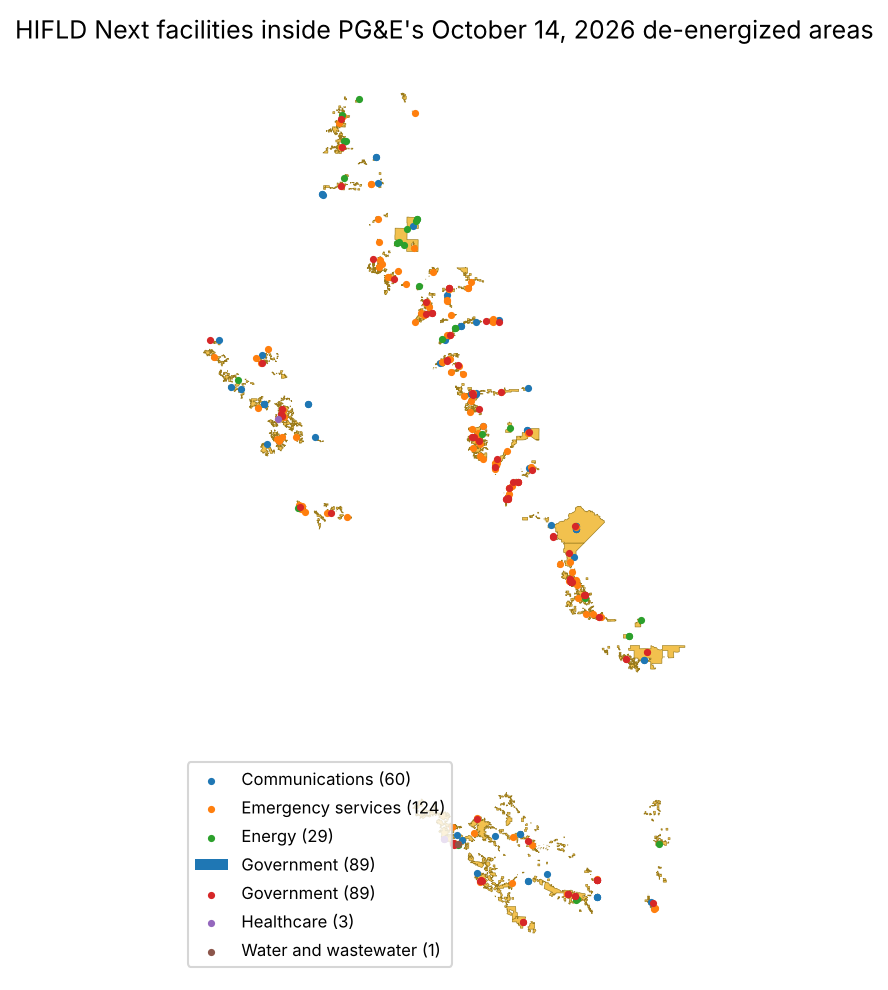
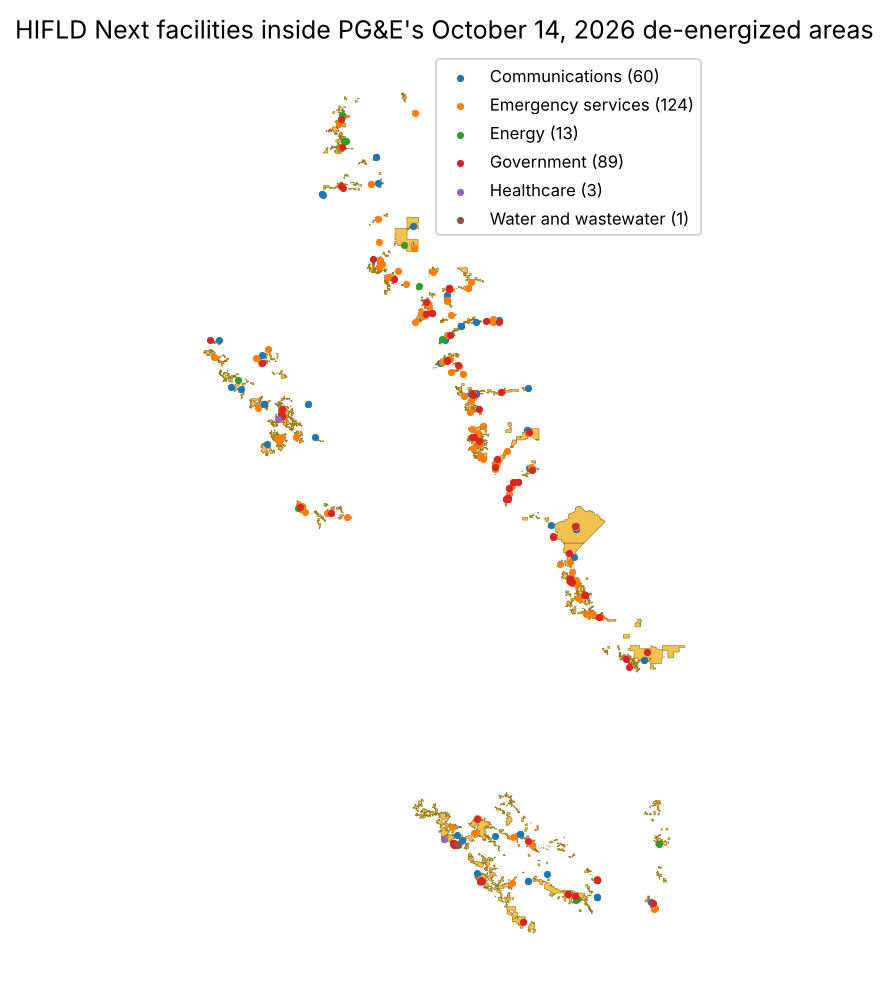
pge-psps-hifld-facilities: README, exclude PG&E-owned plants, map fix
Claude-Session: https://claude.ai/code/session_01L5nw7AtSoNiRCerJhzixSw

Changed region(s): [[0.2128, 0.7576, 0.5169, 0.9697], [0.4561, 0.0606, 0.7905, 0.2424]]

diff --git a/pge-psps-hifld-facilities/notebook.py b/pge-psps-hifld-facilities/notebook.py
@@ -237,7 +237,19 @@ def _(fetch, gpd, pd, re, session):
         ("private-schools", "Private schools", "Government", None),
         ("colleges-and-universities", "Colleges", "Government", lambda d: d["STATUS"] == "A"),
         ("prison-boundaries-1", "Jails and prisons", "Government", lambda d: d["STATUS"] == "OPEN"),
-        ("power-plants-1", "Power plants", "Energy", lambda d: d["STATUS"] == "OP"),
+        # PG&E's own plants are its assets, not CFI customers.
+        (
+            "power-plants-1",
+            "Power plants (not PG&E's)",
+            "Energy",
+            lambda d: (d["STATUS"] == "OP") & ~d["OPERATOR"].str.startswith("PACIFIC GAS"),
+        ),
+        (
+            "power-plants-1",
+            "PG&E's own power plants",
+            "Not CFI",
+            lambda d: (d["STATUS"] == "OP") & d["OPERATOR"].str.startswith("PACIFIC GAS"),
+        ),
         (
             "icis-wastewater-treatment-plants",
             "Wastewater plants",
@@ -381,7 +393,7 @@ def _(gpd, inside_oct14, mo):
     _cfi = inside_oct14[inside_oct14["sector"] != "Not CFI"]
     _blobs = gpd.GeoSeries([_cfi.buffer(50).union_all()], crs=3310).explode(index_parts=False)
     sites_oct14 = len(_blobs)
-    _plants = _cfi[_cfi["layer"] == "Power plants"]
+    _plants = _cfi[_cfi["layer"] == "Power plants (not PG&E's)"]
     mo.md(
         f"Points are not sites either. Merging every CFI-type point within 100 m of another "
         f"into one site leaves **{sites_oct14} sites** from {len(_cfi)} points: some fire stations "
@@ -579,9 +591,10 @@ def _(facilities, oct14, plt, results):
     _xmin, _ymin, _xmax, _ymax = oct14.total_bounds
     _shown = facilities.cx[_xmin:_xmax, _ymin:_ymax]
     _shown = _shown[_shown.intersects(oct14.union_all()) & (_shown["sector"] != "Not CFI")]
+    _shown = _shown.set_geometry(_shown.representative_point())  # jails are outlines
     for _sector, _g in _shown.groupby("sector"):
         _g.plot(ax=_ax, markersize=6, label=f"{_sector} ({len(_g)})")
-    _ax.legend(loc="lower left", fontsize=8)
+    _ax.legend(loc="upper right", fontsize=8)
     _ax.set_axis_off()
     _ax.set_title("HIFLD Next facilities inside PG&E's October 14, 2026 de-energized areas")
     _fig.savefig(results / "map_oct14.png", dpi=150, bbox_inches="tight")
@@ -646,12 +659,15 @@ def _(mo):
     - **Accounts against points.** PG&E counts service points. A school or water district
       with several meters counts several times on PG&E's side and once, or not at all, on ours.
       The gap is partly a unit mismatch, and public data can't size that part.
-    - **Status fields are old.** Most HIFLD Next facility layers were last validated between
-      2019 and 2024. Fire stations, dialysis centres, EOCs and cellular towers have no usable
+    - **Status fields are old.** HIFLD Next's facility layers were last validated between
+      2008 and 2024, depending on the layer. Fire stations, dialysis centres, EOCs and cellular towers have no usable
       status field, so closed sites can still count.
     - **Generator matching is loose.** Table 15 names a district or a site type, not an
       address.
     - **Polygons are approximate.** See the edge counts above.
+    - **Our first power plant count was wrong.** It counted PG&E's own hydro plants (Pit,
+      Balch, Drum, Caribou and others) as CFI. They are PG&E's assets, not customers, so they
+      now sit in a separate row outside the total.
     """)
     return
 

diff --git a/pge-psps-hifld-facilities/README.md b/pge-psps-hifld-facilities/README.md
@@ -1,0 +1,111 @@
+# How many of PG&E's 1,864 shut-off critical facilities can HIFLD Next find?
+
+From October 14 to 17, 2026, PG&E cut power to 85,863 customers in a Public Safety Power Shutoff
+(PSPS). It told the CPUC that 1,864 of them were critical facilities and infrastructure (CFI)
+customers. This spike asks how many of those an emergency manager could find from public data:
+we put HIFLD Next's facility layers inside PG&E's own polygons of de-energized areas and count
+them, layer by layer. Issue [#278](https://github.com/fulton-ring/agent-content-demos/issues/278),
+[proposal card](https://app.notion.com/p/418cc69045cb8143bcd0fe547c462ee1).
+
+**Short answer: HIFLD Next finds 290 CFI-type facilities (243 distinct sites) inside the October 14
+polygons, against PG&E's 1,864 CFI customers. That's 16%.** It finds the one open hospital,
+and 7 of the 11 sites that got PG&E generators: 7 of the 8 school sites and none of the 3
+water systems. What it misses is mainly water systems and communications sites. HIFLD Next has
+no drinking-water layer at all, and its cell tower layer is a thin FCC subset. We can't put a
+number on that split, because PG&E publishes the CFI total and no count by sector.
+
+- **By sector, inside the October 14 polygons:** 124 emergency services (117 fire and EMS
+  stations, 6 law enforcement, 1 local EOC), 89 government (73 public schools, 8 private schools,
+  2 colleges, 6 jails and camps), 60 cellular towers, 13 power plants not run by PG&E, 3 healthcare
+  (1 hospital, 2 nursing homes), 1 wastewater plant, 0 chemical sites.
+- **Hospitals:** two HIFLD Next hospital records fall inside. Adventist Health St. Helena is open.
+  Feather River Hospital in Paradise is marked closed, which is correct: it closed after the 2018
+  Camp Fire. PG&E's Table 15 also lists "St. Helena Hospital Domestic Water Plant" among its
+  generator sites. HIFLD Next finds the hospital but not its water plant.
+- **The gap is similar in smaller events:** 18 of 129 CFI (14%) on July 15 and 11 of 34 (32%)
+  on October 23. Nine of the 11 on October 23 are cell towers.
+- **A third of the matches sit on an edge:** 102 of the 290 are within 100 m of a polygon edge,
+  and another 36 are just outside one. The one school district we missed, Berkeley Unified, has its
+  nearest school 88 m outside the polygon.
+
+| Event | Customers | PG&E CFI | HIFLD Next CFI-type | Share |
+|---|---:|---:|---:|---:|
+| 2026-10-14 | 85,863 | 1,864 | 290 | 16% |
+| 2026-07-15 | 5,186 | 129 | 18 | 14% |
+| 2026-10-23 | 364 | 34 | 11 | 32% |
+
+![HIFLD Next facilities inside PG&E's October 14 de-energized areas](results/map_oct14.png)
+
+## Run it
+
+```bash
+./run.sh
+```
+
+Needs [uv](https://docs.astral.sh/uv/). It downloads about 165 MB (three PG&E events and 18 HIFLD
+Next files) into `~/.cache/pge-psps-hifld-facilities` (or set `PSPS_CACHE`). A run from an empty
+cache took under a minute; with a warm cache it takes about 20 seconds. It writes `results/`. To read
+the notebook with its outputs: `uv run marimo edit notebook.py`. Cost: $0.
+
+## Data (all public, downloaded at run time)
+
+| Input | Where |
+|---|---|
+| PG&E de-energized polygons, one per "time and place" | `<date>-pge-psps-event.gdb.zip`, layer `PSPS_<date>DeEnergizedAreas`, from PG&E's [PSPS page](https://www.pge.com/en/outages-and-safety/safety/community-wildfire-safety-program/public-safety-power-shutoffs.html) |
+| PG&E CFI totals (Table 1) and generator sites (Table 15) | `<date>-psps-post-event-report-tables.xlsx`, same page |
+| CFI definition (CPUC's interim sector list) | Appendix F of the [October 14 report PDF](https://www.pge.com/assets/pge/docs/outages-and-safety/outage-preparedness-and-support/10-14-2026-psps-post-event-report.pdf) |
+| 16 HIFLD Next facility layers, plus two school district layers | [HIFLD Next](https://hifld.publicenvirodata.org) portal API, newest version of each; list and versions in `results/hifld_versions.csv` |
+
+The issue asked us to first check whether PG&E posts the geodatabase or only files it with the
+CPUC. PG&E posts it publicly, next to the PDF and the Excel tables, for every 2026 event.
+
+## Method
+
+1. **Polygons.** We read the `DeEnergizedAreas` layer (23 polygons for October 14) and reproject
+   it to California Albers (EPSG:3310) so distances are in metres.
+2. **HIFLD Next layers, by CPUC sector.** Healthcare: hospitals, nursing homes, dialysis, VA.
+   Emergency services: fire and EMS, law enforcement, local and state EOCs. Government: public and
+   private schools, colleges, jails and prisons. Energy: power plants. Water: ICIS wastewater
+   plants. Communications: cellular towers. Chemical: EPA RMP facilities. We keep only open or
+   active records where a layer has a status field. Three groups are counted but kept out of the
+   CFI total: assisted living, which the CPUC list doesn't name, and PG&E's own 16 hydro plants
+   inside the footprint, which are PG&E's assets rather than customers.
+3. **Count.** A facility counts if its point, or a jail's outline, touches a polygon. We also merge
+   points within 100 m of each other into sites.
+4. **Generator sites.** Table 15 names a district or site type, not an address. For a school
+   district, we count it found if an open HIFLD Next public school with that NCES district ID is
+   inside. For anything else, we look for the name.
+5. **Edges.** We count facilities within 100 m and 500 m of a polygon edge, on each side.
+
+**What we looked at first.** We used plain GeoPandas spatial joins: no new tool was needed. We took the
+portal API pattern from `school-campus-dedup/` and the cached-download pattern from
+`critical-facilities-flood-zones/`.
+
+## What didn't work, and what this doesn't show
+
+- **No CFI breakdown from PG&E.** The report, its workbook and PG&E's 2025 post-season data
+  workbook give only the CFI total, so the comparison by type is against what each CPUC sector
+  covers, not against PG&E's count per sector. "Misses mainly water and communications" is an
+  inference: from the layers HIFLD Next lacks and from the three water systems among the generator
+  sites, all of them missed.
+- **Accounts against points.** PG&E counts service points (meters). A water district with a dozen
+  pumps counts a dozen times on PG&E's side. Some of the gap is this unit mismatch, and public data
+  can't size it.
+- **Our first power plant count was wrong.** It included 16 PG&E hydro plants (Pit, Balch, Drum,
+  Caribou and others). Those are PG&E's own assets, not customers, so we moved them out.
+- **Loose matches on the generator test.** A district with a school inside the polygons doesn't
+  prove the generator went to that school. One of the Kings Canyon matches is an online school.
+- **Old or missing status fields.** Validation dates run from 2008 to 2024, depending on the layer. Fire
+  stations, dialysis centres, EOCs and cell towers have no usable status field, and the fire layer
+  lists some stations twice under two agencies' names. Merging those into sites drops 290 points to
+  243.
+- **Approximate polygons.** PG&E's polygons approximate circuit service areas. With a third of the
+  matches within 100 m of an edge, a different drawing could move the count by tens.
+- **One utility, three events.** We didn't test other utilities or earlier years.
+
+## Files
+
+`notebook.py` (the analysis), `run.sh`, and `results/`: `headline.json`, `events.csv`,
+`counts_by_layer_oct14.csv`, `counts_by_sector_oct14.csv`, `facilities_inside_oct14.csv`
+(every match), `hospitals_oct14.csv`, `generator_sites_oct14.csv`, `edge_sensitivity_oct14.csv`,
+`hifld_versions.csv` and `map_oct14.png`.
